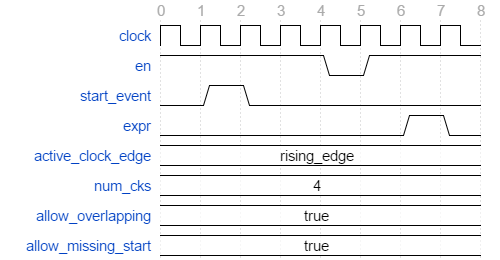
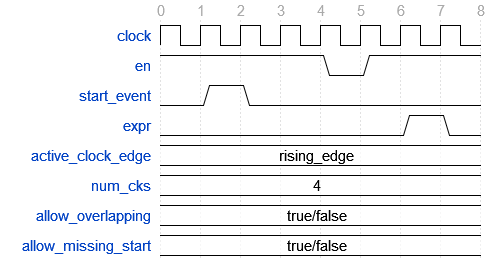
Add pictures for the 'allow_missing_start' of the 'check_next' procedure (see #576). Indicates in the timing diagram when the options 'allow_overlapping' and 'allow_missing_start' add no influence regarding the given example.

diff --git a/docs/check/user_guide.rst b/docs/check/user_guide.rst
@@ -951,7 +951,11 @@ the second start event
 When ``allow_missing_start`` is ``true`` ``check_next`` will allow
 ``expr = '1'`` when there is no corresponding start event. When
 ``allow_missing_start`` is ``false`` such a situation will lead to a
-failure.
+failure. Here is an example where ``expr`` is at ``'1'`` for one
+cycles with no corresponding start event.
+
+.. figure:: images/check_next_passing_with_missing_start.png
+   :alt:
 
 Any unknown value  (``U``, ``X``, ``Z``, ``W``, or ``-``) on ``start_event``
 will cause an error.
